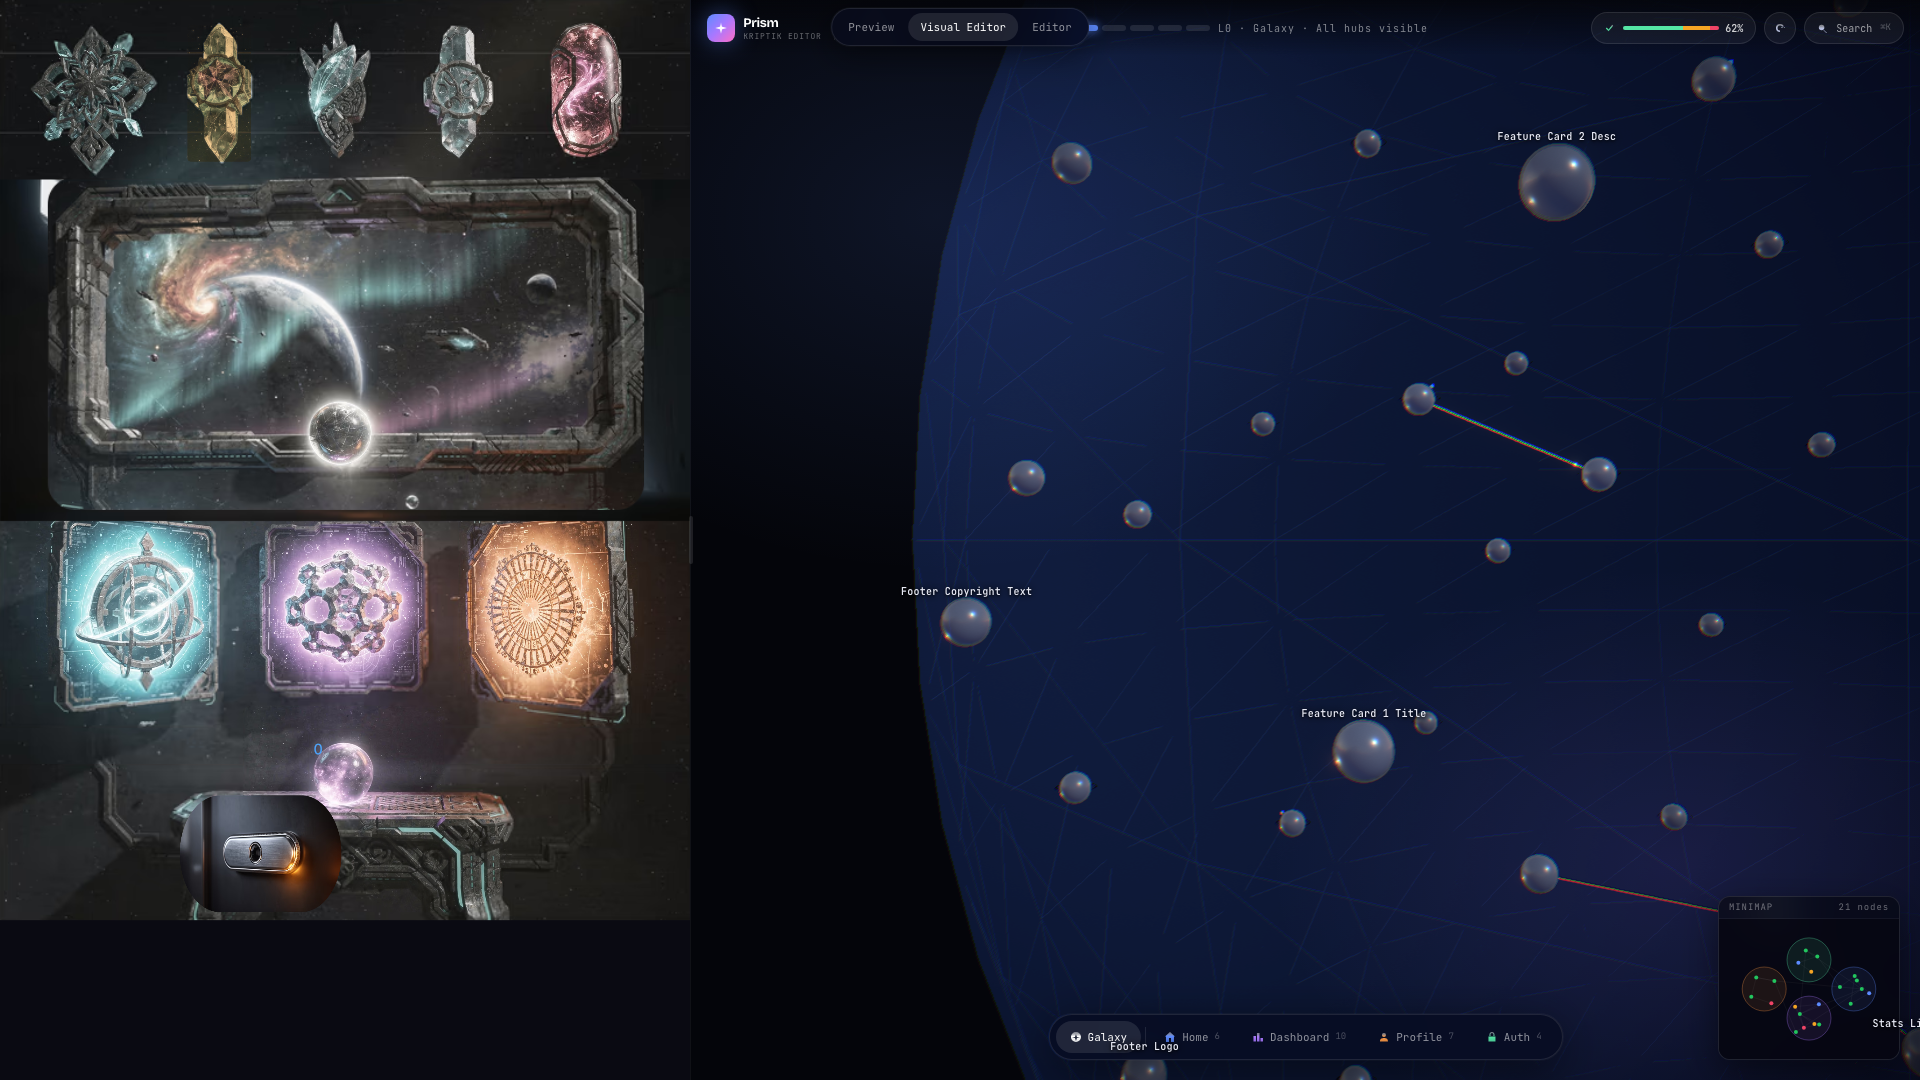
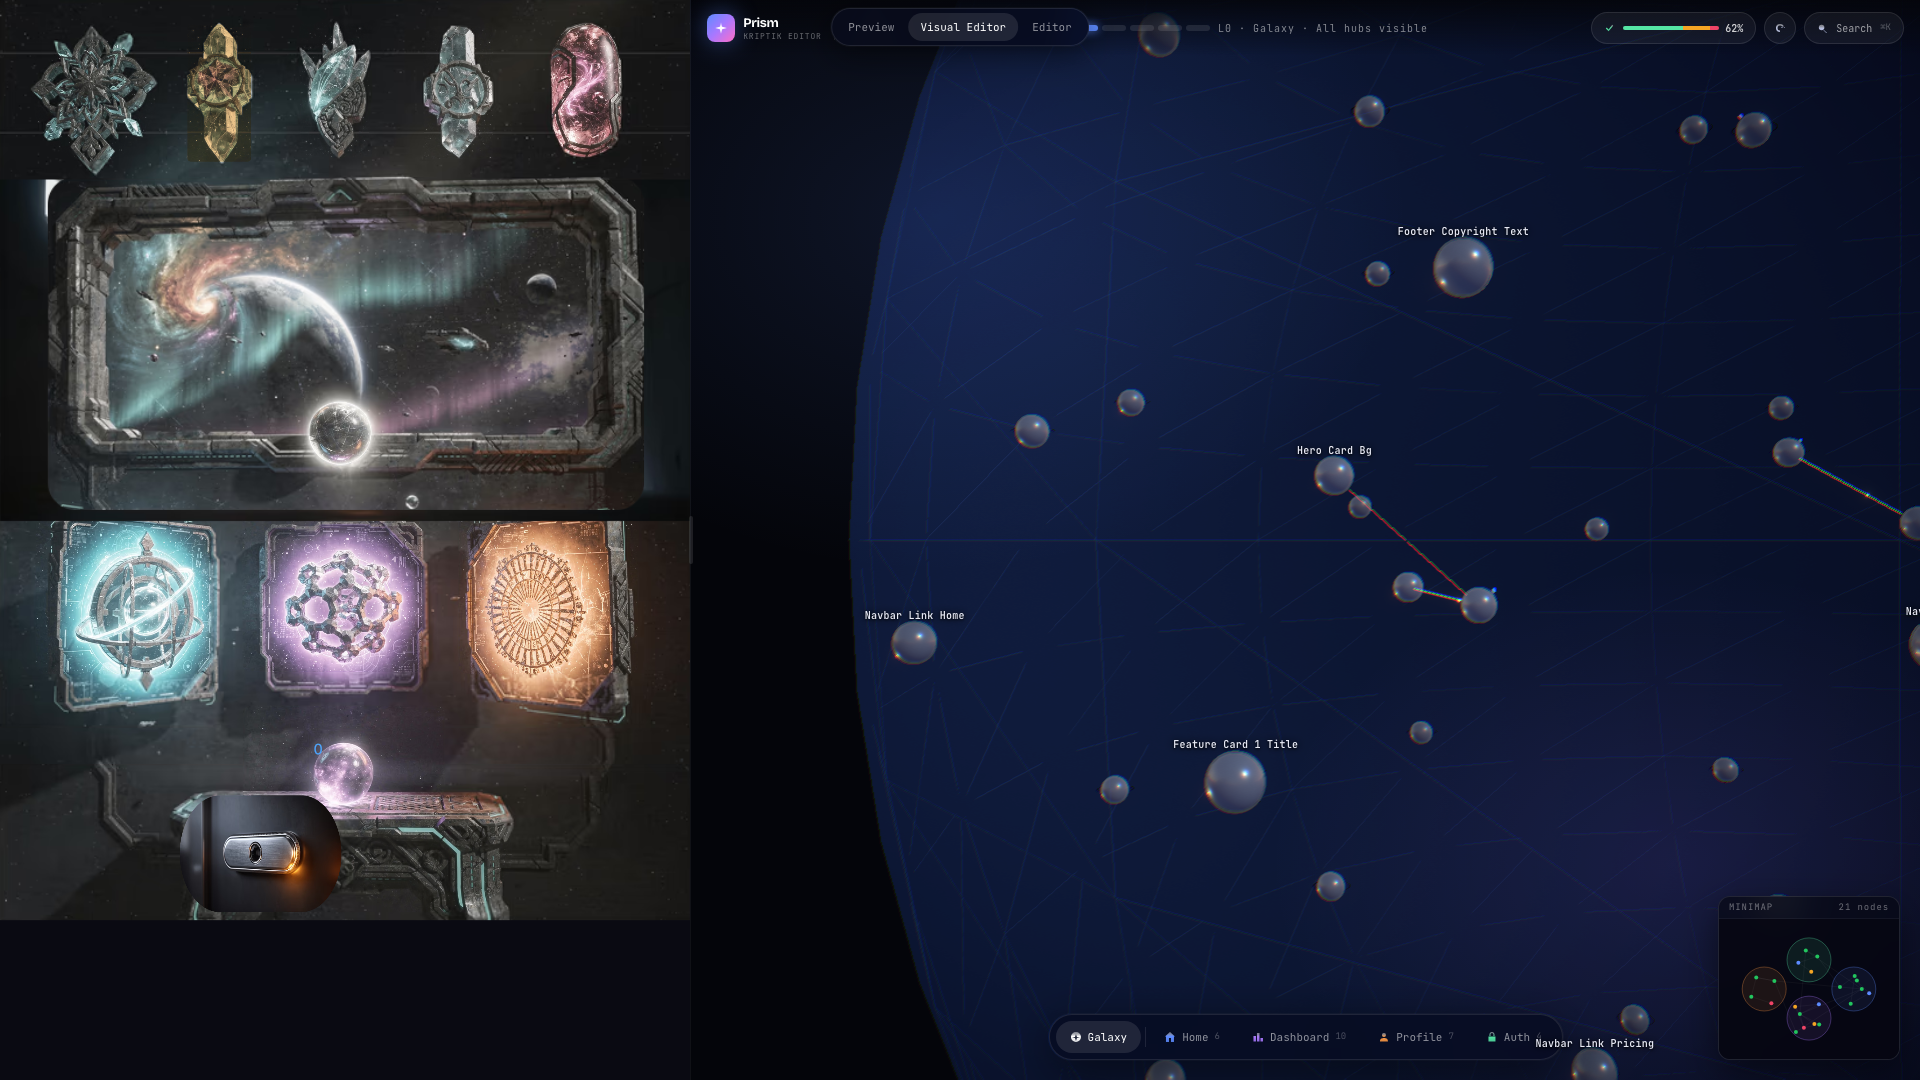
prism-mock: T-EDIT-05 — bidirectional editor↔preview live binding (plan:Phase 5)

diff --git a/kid-kode-landing/src/lib/prism/player/boot.ts b/kid-kode-landing/src/lib/prism/player/boot.ts
@@ -61,6 +61,14 @@ export interface PrismDebugHandle {
   currentBreakpoint: BreakpointName;
   hiddenNodeIds: string[];
   shr: Shr;
+  /** Programmatic selection from the editor. Updates the visual highlight ring;
+   *  does NOT emit `node-selected` (so the editor doesn't echo back into a loop). */
+  selectNode: (nodeId: string | null) => void;
+  /** Visual-only highlight ring (no selection-state mutation). Pass null to clear. */
+  highlightNode: (nodeId: string | null) => void;
+  /** Subscribe to user-driven node selection in the preview pane (per-node pointerdown
+   *  emits `node-selected`). Returns an unsubscribe handle. */
+  onNodeSelected: (cb: (nodeId: string) => void) => () => void;
 }
 
 declare global {
@@ -180,6 +188,25 @@ export async function mount(canvas: HTMLCanvasElement, prismUrl: string, opts: M
   // effectively at a narrow breakpoint and its layout should reflect that.
   let currentBreakpoint: BreakpointName = classifyBreakpoint(initialW);
 
+  // T-EDIT-05 — bidirectional editor↔preview selection bridge.
+  // The ring is a direct child of viewport.content so it scrolls + scales
+  // with the mock app; zIndex pinned high so it draws above all node containers.
+  // ALLOWED-GRAPHICS: selection-ring (§1.4 exception — overlay rectangle, not visible UI chrome)
+  const selectionRing = new PIXI.Graphics();
+  selectionRing.zIndex = 100_000;
+  selectionRing.eventMode = 'none';
+  let highlightedNodeId: string | null = null;
+
+  // Attached to each node container after creation; emits `node-selected`
+  // on pointerdown. Hoisted as a function so the rebuildNode path can
+  // re-attach the listener after applyLayout tears down the old instance.
+  const attachSelectionBridge = (container: PIXI.Container, nodeId: string) => {
+    container.eventMode = container.eventMode === 'none' ? 'static' : container.eventMode;
+    container.on('pointerdown', () => {
+      events.emit('node-selected', { nodeId });
+    });
+  };
+
   // Materialize each node, sorted by intent.visual.transform.z so draw order
   // matches author intent. Scoped backend per-node when backendRef is set.
   const instancesByNode = new Map<string, NodeInstance>();
@@ -219,6 +246,11 @@ export async function mount(canvas: HTMLCanvasElement, prismUrl: string, opts: M
       if (typeof alpha === 'number') instance.container.alpha = alpha;
       instancesByNode.set(node.nodeId, instance);
       viewport.content.addChild(instance.container);
+      // T-EDIT-05 — preview→editor selection bridge. Per-node pointerdown
+      // emits `node-selected` so the editor's onNodeSelected subscriber can
+      // mirror the click into useGraphEditorStore.selectNode. Scoped: only
+      // selection, not the full graph-mutation path that was reverted.
+      attachSelectionBridge(instance.container, node.nodeId);
     } catch (e) {
       console.error(`[prism/boot] node ${node.nodeId} failed:`, e);
     }
@@ -279,6 +311,9 @@ export async function mount(canvas: HTMLCanvasElement, prismUrl: string, opts: M
       }
       instancesByNode.set(nodeId, instance);
       viewport.content.addChild(instance.container);
+      // Re-attach the selection bridge — applyLayout teardown blew away
+      // the previous instance's listeners along with its container.
+      attachSelectionBridge(instance.container, nodeId);
       return instance;
     } catch (e) {
       console.error(`[prism/boot] rebuild ${nodeId} failed:`, e);
@@ -308,6 +343,46 @@ export async function mount(canvas: HTMLCanvasElement, prismUrl: string, opts: M
     initialNavLinkId: 'navbar-link-home',
   });
 
+  // T-EDIT-05 — wire the selection ring + bridge handle methods. Done after
+  // node materialization so highlightNode can resolve nodeId → instance via
+  // instancesByNode. The ring is parented to viewport.content (so it
+  // scrolls + scales with the mock-app design grid).
+  viewport.content.addChild(selectionRing);
+
+  const drawHighlight = () => {
+    selectionRing.clear();
+    if (!highlightedNodeId) return;
+    const node = graph.nodes.find((n) => n.nodeId === highlightedNodeId);
+    if (!node) return;
+    const inst = instancesByNode.get(highlightedNodeId);
+    if (!inst) return;
+    const t = resolveTransform(node.visual as ResolvableVisual, currentBreakpoint);
+    const PAD = 6;
+    selectionRing
+      .rect(t.x - PAD, t.y - PAD, t.width + PAD * 2, t.height + PAD * 2)
+      .stroke({ color: 0x5d8bff, width: 3, alpha: 0.9 });
+  };
+
+  const highlightNode = (nodeId: string | null) => {
+    highlightedNodeId = nodeId;
+    drawHighlight();
+  };
+
+  const selectNode = (nodeId: string | null) => {
+    // Programmatic select from the editor — visual only. We deliberately do
+    // NOT emit `node-selected` here because that channel is reserved for
+    // user-driven preview clicks; emitting from the editor side would
+    // bounce back into the editor's own onNodeSelected subscriber.
+    highlightNode(nodeId);
+  };
+
+  const onNodeSelected = (cb: (nodeId: string) => void): (() => void) => {
+    return events.on('node-selected', (payload) => {
+      const id = (payload as { nodeId?: string } | null)?.nodeId;
+      if (typeof id === 'string') cb(id);
+    });
+  };
+
   if (typeof window !== 'undefined') {
     globalThis.__prismBreakNode = (nodeId: string) => shr.breakNode(nodeId);
     globalThis.__prism = {
@@ -319,6 +394,9 @@ export async function mount(canvas: HTMLCanvasElement, prismUrl: string, opts: M
       currentBreakpoint,
       hiddenNodeIds,
       shr,
+      selectNode,
+      highlightNode,
+      onNodeSelected,
     };
   }
 

diff --git a/kid-kode-landing/src/components/editor/panels/Inspector.tsx b/kid-kode-landing/src/components/editor/panels/Inspector.tsx
@@ -35,6 +35,45 @@ export default function Inspector() {
     [sourceHubs, sourceNodes, sourceEdges]
   );
 
+  // T-EDIT-05 — bidirectional editor↔preview live binding (plan §Phase 5).
+  // Editor → preview: when the editor's selection changes, push a visual
+  // highlight ring onto the matching preview node. window.__prism may be
+  // undefined briefly during PrismHost mount, so guard each call.
+  useEffect(() => {
+    if (typeof window === 'undefined') return;
+    window.__prism?.highlightNode(selectedId ?? null);
+  }, [selectedId]);
+
+  // Preview → editor: subscribe to user-driven node clicks in the preview
+  // pane. Mounted once at component creation (Inspector is always rendered
+  // by RightPane) so the subscription stays live regardless of inspector
+  // open/close state. The callback opens the inspector on first click so
+  // the user immediately sees the data for the node they tapped.
+  useEffect(() => {
+    if (typeof window === 'undefined') return;
+    let off: (() => void) | undefined;
+    let cancelled = false;
+    const tryAttach = () => {
+      const handle = window.__prism;
+      if (!handle) return false;
+      off = handle.onNodeSelected((nodeId) => {
+        const store = useGraphEditorStore.getState();
+        store.selectNode(nodeId);
+        store.openInspector();
+      });
+      return true;
+    };
+    if (!tryAttach()) {
+      // PrismHost mounts asynchronously — poll briefly until __prism appears.
+      const timer = setInterval(() => {
+        if (cancelled) return;
+        if (tryAttach()) clearInterval(timer);
+      }, 200);
+      return () => { cancelled = true; clearInterval(timer); off?.(); };
+    }
+    return () => { off?.(); };
+  }, []);
+
   if (!open || !selectedId) return null;
   const node = editorGraph.nodes.find((n) => n.id === selectedId);
   if (!node) return null;

diff --git a/kid-kode-landing/src/components/prism-player/PrismHost.tsx b/kid-kode-landing/src/components/prism-player/PrismHost.tsx
@@ -2,6 +2,13 @@
 
 import { useEffect, useRef, useState } from 'react';
 import { mount, type MountResult } from '@/lib/prism/player';
+// T-EDIT-05 — expose the bidirectional editor↔preview bridge type to
+// editor-side consumers. boot.ts owns the runtime contract; PrismHost is
+// the React boundary, so re-exporting keeps the import surface clean.
+//   - selectNode(nodeId | null)      — editor → preview (programmatic select)
+//   - highlightNode(nodeId | null)   — editor → preview (visual ring only)
+//   - onNodeSelected(cb)             — preview → editor (user-driven click)
+export type { PrismDebugHandle } from '@/lib/prism/player';
 
 export type ViewportPreset = 'mobile' | 'tablet' | 'desktop' | 'fit';
 

diff --git a/kid-kode-landing/src/lib/prism/player/index.ts b/kid-kode-landing/src/lib/prism/player/index.ts
@@ -1,4 +1,4 @@
 // Public entry point for the Prism Runtime Player.
 export { mount } from './boot';
-export type { MountResult, MountOpts } from './boot';
+export type { MountResult, MountOpts, PrismDebugHandle } from './boot';
 export type { CompiledGraph, NodeDef, EdgeDef, HubDef, PrismBundle, Manifest } from './prism-loader';
